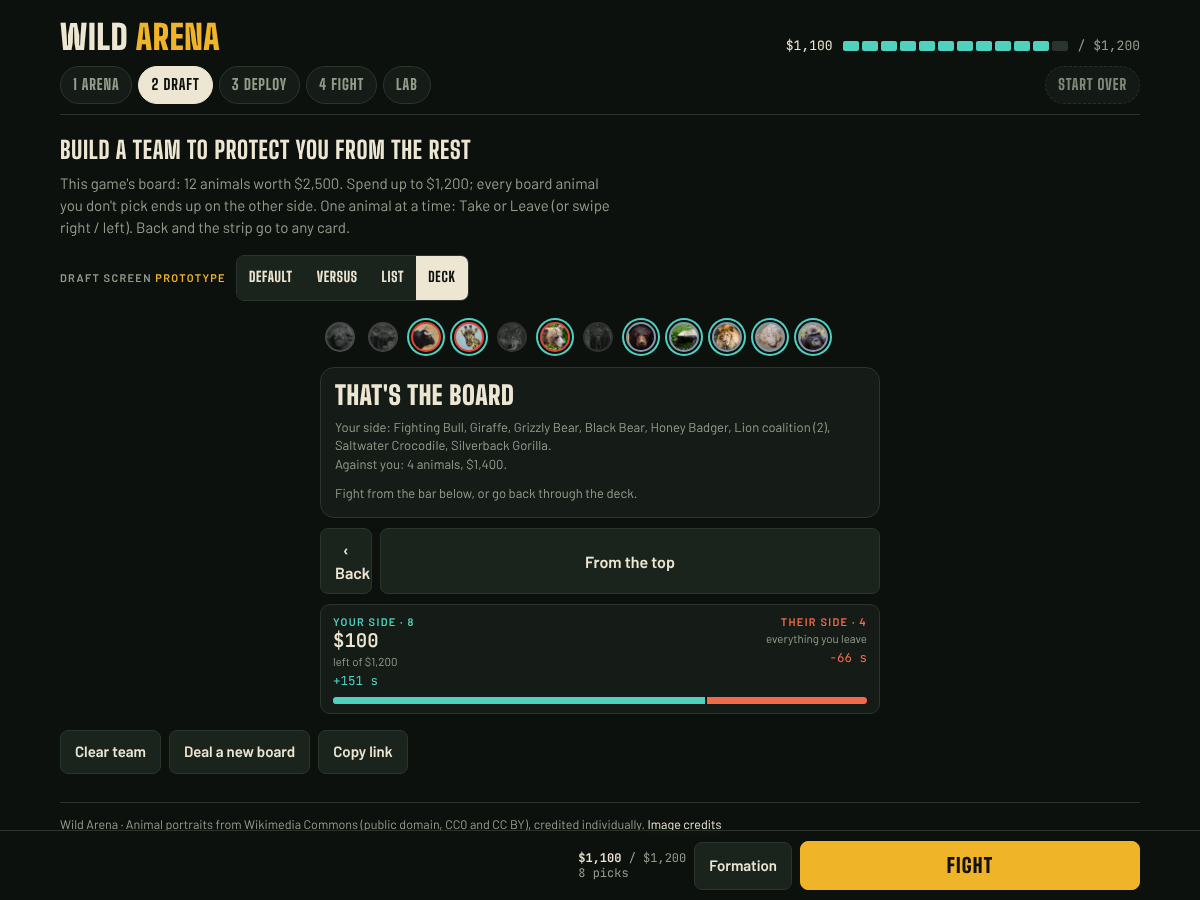
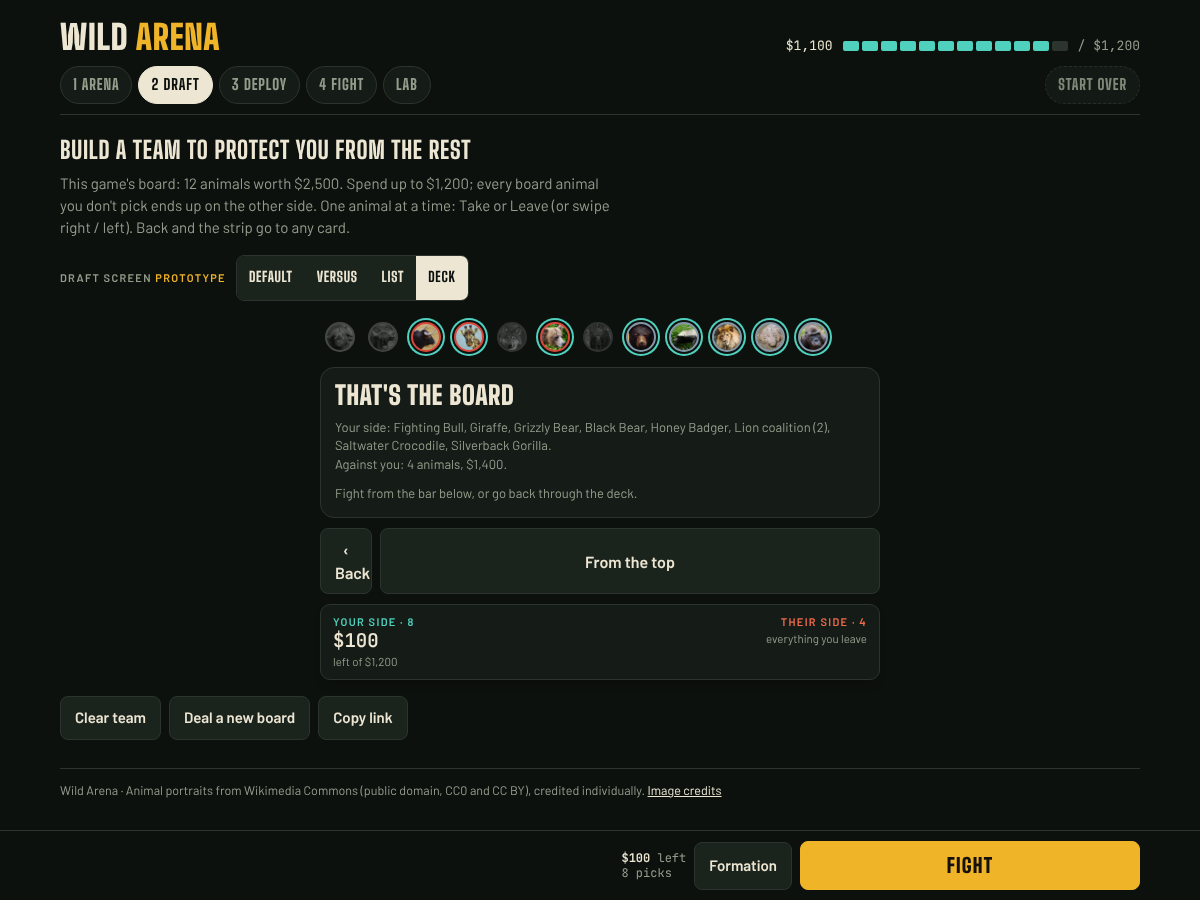
Versus draft: hide measured values (owner: discovering what's good is the fun), sticky scoreboard with budget left, no truncated signature line on tiles, action bar counts down what's left; long-team scroll on a phone ~600 -> 420 px
Claude-Session: https://claude.ai/code/session_01L2JvfUwxunjk4yQsnvm84a

diff --git a/index.html b/index.html
@@ -4477,7 +4477,7 @@ function renderActBar(){
   else if (sc === 'draft'){
     const n = S.prog ? M.teamIds(S.prog).length : S.team.size;
     const sum = document.createElement('span'); sum.className = 'sum';
-    sum.innerHTML = S.prog ? `<b>$${S.prog.money.toLocaleString()}</b><br>left` : `<b>$${spent().toLocaleString()}</b> / $${BUDGET.toLocaleString()}<br>${n} pick${n === 1 ? '' : 's'}`;
+    sum.innerHTML = S.prog ? `<b>$${S.prog.money.toLocaleString()}</b><br>left` : DUI.ui && DUI.ui !== 'default' ? `<b>$${(BUDGET - spent()).toLocaleString()}</b> left<br>${n} pick${n === 1 ? '' : 's'}` : `<b>$${spent().toLocaleString()}</b> / $${BUDGET.toLocaleString()}<br>${n} pick${n === 1 ? '' : 's'}`; // the prototype draft screens count down what's left (owner)
     add(sum, actBtn('Formation', () => go('deploy'), false, 'Place your animals (optional: Fight uses the auto formation)'), actBtn(n ? 'Fight' : 'Fight alone', () => startBattle(), true));
   }
   else if (sc === 'deploy') add(actBtn('Auto', () => $('autoForm').click(), false, 'Auto formation'), actBtn('Release the animals', () => startBattle(), true));
@@ -4545,19 +4545,14 @@ function duiNote(t){ DUI.msg = t; clearTimeout(duiNoteT); duiNoteT = setTimeout(
 function duiDetailHTML(id){ S.focus = id; renderDetail(); return $('detail').innerHTML; }
 function duiInfo(id){ $('duiDlgBody').innerHTML = duiDetailHTML(id); $('duiDlg').showModal(); }
 
-// both sides: money, head count and the summed measured value (A.MEASURED: seconds of survival an animal added on your side,
-// or cost you on theirs, each measured alone in paired test fights; a rough guide, since they don't simply add up)
+// both sides: head count, and the budget you have left
 function duiScore(note){
-  const mine = [...S.team], theirs = S.board.filter(id => !S.team.has(id)), V = id => A.MEASURED[id] || {mine: 0, theirs: 0};
-  const mv = Math.round(mine.reduce((s, id) => s + Math.max(0, V(id).mine), 0)), tv = Math.round(theirs.reduce((s, id) => s + Math.max(0, -V(id).theirs), 0));
-  const cnt = ids => ids.length, $$ = ids => ids.reduce((s, id) => s + A.BY_ID[id].price, 0);
-  const share = mv + tv ? mv / (mv + tv) : .5;
-  // owner (Oct 27): the money that matters is your budget left; their side shows no money
+  // owner (Oct 27): no measured values on screen (the +s / -s took away the fun of discovering what's good); just who's
+  // on each side and the budget you have left
+  const mine = [...S.team], theirs = S.board.filter(id => !S.team.has(id));
   const money = S.prog ? `<b>$${S.prog.money.toLocaleString()}</b><span class="sub">left to spend</span>` : `<b>$${duiLeft().toLocaleString()}</b><span class="sub">left of $${BUDGET.toLocaleString()}</span>`;
-  return `<div class="duiscore"><div class="sd you"><span class="label">Your side · ${cnt(mine)}</span>${money}<span class="v" title="Measured value">+${mv} s</span></div>`
-    + `<div class="sd foe"><span class="label">Their side · ${cnt(theirs)}</span><span class="sub">everything you leave${S.prog && S.prog.premium ? ', + premium' : ''}</span><span class="v" title="Measured value">−${tv} s</span></div>`
-    + `<div class="tug" title="Measured value, yours vs theirs"><i style="width:${Math.round(share * 100)}%"></i><b></b></div>`
-    + (note ? `<details class="duinote"><summary>What's the +s / −s?</summary>Measured value: seconds of survival each animal added on your side, or cost you on theirs, in test fights. Rough: they don't simply add up.</details>` : '')
+  return `<div class="duiscore"><div class="sd you"><span class="label">Your side · ${mine.length}</span>${money}</div>`
+    + `<div class="sd foe"><span class="label">Their side · ${theirs.length}</span><span class="sub">everything you leave${S.prog && S.prog.premium ? ', + premium' : ''}</span></div>`
     + `<div class="duimsg" aria-live="polite">${esc(DUI.msg)}</div></div>`;
 }
 const duiSig = a => { const s = sigOf(a); return s ? `<b>${esc(s[0])}</b> ${esc(s[1])}` : esc(a.style); };
@@ -4578,7 +4573,7 @@ function duiVersus(box){
     const prem = duiPrem(a.id), carried = side === 'you' && S.prog && !duiFresh(a.id), cls = ['vt', side, !S.team.has(a.id) && !canAdd(a) ? 'cant' : '', prem ? 'prem' : '', DUI.flash === a.id ? 'flash' : ''].join(' ');
     const lbl = prem ? 'Not for sale: it fights you' : side === 'foe' ? `Bring ${itemName(a)} to your side` : carried ? `${itemName(a)}: details` : `Send ${itemName(a)} to their side`;
     return `<div class="${cls}"><button class="vtm" data-${prem || carried ? 'info' : 'id'}="${a.id}" aria-label="${esc(lbl)}">${tokHTML(a, 38)}<span class="vtb"><span class="vtn">${esc(itemName(a))}</span>`
-      + `<span class="vtl">${duiPriceHTML(a)}${duiTags(a)}${prem ? '<span class="bdg bad">Not for sale</span>' : ''}</span><span class="vts">${duiSig(a)}</span></span></button>`
+      + `<span class="vtl">${duiPriceHTML(a)}${duiTags(a)}${prem ? '<span class="bdg bad">Not for sale</span>' : ''}</span></span></button>`
       + `<button class="vti" data-info="${a.id}" aria-label="${esc(itemName(a))} details"><span>i</span></button>${side === 'you' && S.prog ? `<div class="vtp">${duiProgBits(a.id)}</div>` : ''}</div>`;
   };
   box.innerHTML = duiScore(true) + `<div class="vs"><section class="vcol you"><h3>Your side</h3><p class="vh">${S.prog ? 'Undo, sell or heal below each' : 'Tap to send back'}</p><div class="vlist">${mine.map(a => tile(a, 'you')).join('') || '<p class="vempty">Nobody yet. Tap an animal on their side to bring it over.</p>'}</div></section>`
@@ -4732,6 +4727,7 @@ function draftAlt(){
   if (!alt) return false;
   if (!S.prog) $('boardLede').textContent = $('boardLede').textContent.replace(/Tap a card to draft it;.*$/, DUI_HELP[DUI.ui]);
   ({versus: duiVersus, list: duiList, deck: duiDeck})[DUI.ui](box);
+  { const h = document.querySelector('header.top'); if (h) document.documentElement.style.setProperty('--hdrH', h.offsetHeight + 'px'); } // the sticky scoreboard sits just under the header
   return true;
 }
 const DUI_CSS = `
@@ -4739,7 +4735,7 @@ const DUI_CSS = `
 .duisw .seg button{font-family:var(--display);font-weight:800;font-size:14px;letter-spacing:.05em;text-transform:uppercase;padding-inline:12px}
 .dui{display:flex;flex-direction:column;gap:12px;min-width:0}
 .dprice{font-family:var(--mono);font-size:12.5px;font-weight:600}
-.duiscore{display:grid;grid-template-columns:minmax(0,1fr) minmax(0,1fr);gap:3px 12px;background:var(--panel);border:1px solid var(--line);border-radius:var(--r);padding:9px 12px}
+.duiscore{display:grid;grid-template-columns:minmax(0,1fr) minmax(0,1fr);gap:3px 12px;background:var(--panel);border:1px solid var(--line);border-radius:var(--r);padding:9px 12px;position:sticky;top:var(--hdrH, 0px);z-index:15;box-shadow:0 6px 12px -8px rgba(0,0,0,.6)} /* stays under the header while you scroll (owner) */
 .duiscore .sd{display:flex;flex-direction:column;gap:0;min-width:0}
 .duiscore .sd.foe{text-align:right;align-items:flex-end}
 .duiscore .sd.you .label{color:var(--you)} .duiscore .sd.foe .label{color:var(--foe)}
@@ -4869,7 +4865,7 @@ const DUI_CSS = `
 
 // ---------- init ----------
 function renderAll(){ renderBudget(); renderDraft(); renderArenaOpts(); renderActBar(); }
-window.addEventListener('resize', () => { if (S.screen === 'deploy'){ sizeCanvas($('deployCanvas')); drawDeploy(); } if (S.screen === 'fight') sizeCanvas($('fightCanvas')); });
+window.addEventListener('resize', () => { { const h = document.querySelector('header.top'); if (h) document.documentElement.style.setProperty('--hdrH', h.offsetHeight + 'px'); } if (S.screen === 'deploy'){ sizeCanvas($('deployCanvas')); drawDeploy(); } if (S.screen === 'fight') sizeCanvas($('fightCanvas')); });
 $('seedLbl').textContent = S.seed;
 syncSpeed();
 if (!loadHash()){

diff --git a/ui.js b/ui.js
@@ -1518,7 +1518,7 @@ function renderActBar(){
   else if (sc === 'draft'){
     const n = S.prog ? M.teamIds(S.prog).length : S.team.size;
     const sum = document.createElement('span'); sum.className = 'sum';
-    sum.innerHTML = S.prog ? `<b>$${S.prog.money.toLocaleString()}</b><br>left` : `<b>$${spent().toLocaleString()}</b> / $${BUDGET.toLocaleString()}<br>${n} pick${n === 1 ? '' : 's'}`;
+    sum.innerHTML = S.prog ? `<b>$${S.prog.money.toLocaleString()}</b><br>left` : DUI.ui && DUI.ui !== 'default' ? `<b>$${(BUDGET - spent()).toLocaleString()}</b> left<br>${n} pick${n === 1 ? '' : 's'}` : `<b>$${spent().toLocaleString()}</b> / $${BUDGET.toLocaleString()}<br>${n} pick${n === 1 ? '' : 's'}`; // the prototype draft screens count down what's left (owner)
     add(sum, actBtn('Formation', () => go('deploy'), false, 'Place your animals (optional: Fight uses the auto formation)'), actBtn(n ? 'Fight' : 'Fight alone', () => startBattle(), true));
   }
   else if (sc === 'deploy') add(actBtn('Auto', () => $('autoForm').click(), false, 'Auto formation'), actBtn('Release the animals', () => startBattle(), true));
@@ -1586,19 +1586,14 @@ function duiNote(t){ DUI.msg = t; clearTimeout(duiNoteT); duiNoteT = setTimeout(
 function duiDetailHTML(id){ S.focus = id; renderDetail(); return $('detail').innerHTML; }
 function duiInfo(id){ $('duiDlgBody').innerHTML = duiDetailHTML(id); $('duiDlg').showModal(); }
 
-// both sides: money, head count and the summed measured value (A.MEASURED: seconds of survival an animal added on your side,
-// or cost you on theirs, each measured alone in paired test fights; a rough guide, since they don't simply add up)
+// both sides: head count, and the budget you have left
 function duiScore(note){
-  const mine = [...S.team], theirs = S.board.filter(id => !S.team.has(id)), V = id => A.MEASURED[id] || {mine: 0, theirs: 0};
-  const mv = Math.round(mine.reduce((s, id) => s + Math.max(0, V(id).mine), 0)), tv = Math.round(theirs.reduce((s, id) => s + Math.max(0, -V(id).theirs), 0));
-  const cnt = ids => ids.length, $$ = ids => ids.reduce((s, id) => s + A.BY_ID[id].price, 0);
-  const share = mv + tv ? mv / (mv + tv) : .5;
-  // owner (Oct 27): the money that matters is your budget left; their side shows no money
+  // owner (Oct 27): no measured values on screen (the +s / -s took away the fun of discovering what's good); just who's
+  // on each side and the budget you have left
+  const mine = [...S.team], theirs = S.board.filter(id => !S.team.has(id));
   const money = S.prog ? `<b>$${S.prog.money.toLocaleString()}</b><span class="sub">left to spend</span>` : `<b>$${duiLeft().toLocaleString()}</b><span class="sub">left of $${BUDGET.toLocaleString()}</span>`;
-  return `<div class="duiscore"><div class="sd you"><span class="label">Your side · ${cnt(mine)}</span>${money}<span class="v" title="Measured value">+${mv} s</span></div>`
-    + `<div class="sd foe"><span class="label">Their side · ${cnt(theirs)}</span><span class="sub">everything you leave${S.prog && S.prog.premium ? ', + premium' : ''}</span><span class="v" title="Measured value">−${tv} s</span></div>`
-    + `<div class="tug" title="Measured value, yours vs theirs"><i style="width:${Math.round(share * 100)}%"></i><b></b></div>`
-    + (note ? `<details class="duinote"><summary>What's the +s / −s?</summary>Measured value: seconds of survival each animal added on your side, or cost you on theirs, in test fights. Rough: they don't simply add up.</details>` : '')
+  return `<div class="duiscore"><div class="sd you"><span class="label">Your side · ${mine.length}</span>${money}</div>`
+    + `<div class="sd foe"><span class="label">Their side · ${theirs.length}</span><span class="sub">everything you leave${S.prog && S.prog.premium ? ', + premium' : ''}</span></div>`
     + `<div class="duimsg" aria-live="polite">${esc(DUI.msg)}</div></div>`;
 }
 const duiSig = a => { const s = sigOf(a); return s ? `<b>${esc(s[0])}</b> ${esc(s[1])}` : esc(a.style); };
@@ -1619,7 +1614,7 @@ function duiVersus(box){
     const prem = duiPrem(a.id), carried = side === 'you' && S.prog && !duiFresh(a.id), cls = ['vt', side, !S.team.has(a.id) && !canAdd(a) ? 'cant' : '', prem ? 'prem' : '', DUI.flash === a.id ? 'flash' : ''].join(' ');
     const lbl = prem ? 'Not for sale: it fights you' : side === 'foe' ? `Bring ${itemName(a)} to your side` : carried ? `${itemName(a)}: details` : `Send ${itemName(a)} to their side`;
     return `<div class="${cls}"><button class="vtm" data-${prem || carried ? 'info' : 'id'}="${a.id}" aria-label="${esc(lbl)}">${tokHTML(a, 38)}<span class="vtb"><span class="vtn">${esc(itemName(a))}</span>`
-      + `<span class="vtl">${duiPriceHTML(a)}${duiTags(a)}${prem ? '<span class="bdg bad">Not for sale</span>' : ''}</span><span class="vts">${duiSig(a)}</span></span></button>`
+      + `<span class="vtl">${duiPriceHTML(a)}${duiTags(a)}${prem ? '<span class="bdg bad">Not for sale</span>' : ''}</span></span></button>`
       + `<button class="vti" data-info="${a.id}" aria-label="${esc(itemName(a))} details"><span>i</span></button>${side === 'you' && S.prog ? `<div class="vtp">${duiProgBits(a.id)}</div>` : ''}</div>`;
   };
   box.innerHTML = duiScore(true) + `<div class="vs"><section class="vcol you"><h3>Your side</h3><p class="vh">${S.prog ? 'Undo, sell or heal below each' : 'Tap to send back'}</p><div class="vlist">${mine.map(a => tile(a, 'you')).join('') || '<p class="vempty">Nobody yet. Tap an animal on their side to bring it over.</p>'}</div></section>`
@@ -1773,6 +1768,7 @@ function draftAlt(){
   if (!alt) return false;
   if (!S.prog) $('boardLede').textContent = $('boardLede').textContent.replace(/Tap a card to draft it;.*$/, DUI_HELP[DUI.ui]);
   ({versus: duiVersus, list: duiList, deck: duiDeck})[DUI.ui](box);
+  { const h = document.querySelector('header.top'); if (h) document.documentElement.style.setProperty('--hdrH', h.offsetHeight + 'px'); } // the sticky scoreboard sits just under the header
   return true;
 }
 const DUI_CSS = `
@@ -1780,7 +1776,7 @@ const DUI_CSS = `
 .duisw .seg button{font-family:var(--display);font-weight:800;font-size:14px;letter-spacing:.05em;text-transform:uppercase;padding-inline:12px}
 .dui{display:flex;flex-direction:column;gap:12px;min-width:0}
 .dprice{font-family:var(--mono);font-size:12.5px;font-weight:600}
-.duiscore{display:grid;grid-template-columns:minmax(0,1fr) minmax(0,1fr);gap:3px 12px;background:var(--panel);border:1px solid var(--line);border-radius:var(--r);padding:9px 12px}
+.duiscore{display:grid;grid-template-columns:minmax(0,1fr) minmax(0,1fr);gap:3px 12px;background:var(--panel);border:1px solid var(--line);border-radius:var(--r);padding:9px 12px;position:sticky;top:var(--hdrH, 0px);z-index:15;box-shadow:0 6px 12px -8px rgba(0,0,0,.6)} /* stays under the header while you scroll (owner) */
 .duiscore .sd{display:flex;flex-direction:column;gap:0;min-width:0}
 .duiscore .sd.foe{text-align:right;align-items:flex-end}
 .duiscore .sd.you .label{color:var(--you)} .duiscore .sd.foe .label{color:var(--foe)}
@@ -1910,7 +1906,7 @@ const DUI_CSS = `
 
 // ---------- init ----------
 function renderAll(){ renderBudget(); renderDraft(); renderArenaOpts(); renderActBar(); }
-window.addEventListener('resize', () => { if (S.screen === 'deploy'){ sizeCanvas($('deployCanvas')); drawDeploy(); } if (S.screen === 'fight') sizeCanvas($('fightCanvas')); });
+window.addEventListener('resize', () => { { const h = document.querySelector('header.top'); if (h) document.documentElement.style.setProperty('--hdrH', h.offsetHeight + 'px'); } if (S.screen === 'deploy'){ sizeCanvas($('deployCanvas')); drawDeploy(); } if (S.screen === 'fight') sizeCanvas($('fightCanvas')); });
 $('seedLbl').textContent = S.seed;
 syncSpeed();
 if (!loadHash()){

diff --git a/CLAUDE.md b/CLAUDE.md
@@ -23,6 +23,8 @@ count as 5:00). Live site: GitHub Pages serves `index.html` from `main`.
 - **Don't change knobs the owner didn't ask about.** When a proposal moves a number they care about, explain the why in
   one or two plain sentences ("the total is the other side's budget, so...").
 - **Science wording:** a null result is "none found **so far**", never "there's no headroom". Keep trying with better setups.
+- **No measured values on screen.** Discovering what's good is part of the fun (owner, Oct 27: hide the +s / −s): cards and
+  draft screens show signatures, stats and the player's own record, never `MEASURED` swing numbers.
 - **Mobile first.** The owner plays and screenshots on a phone (~412 px). Check every UI change with a Playwright
   screenshot at phone width and look at it, not just for page errors.
 - **Bug reports are terse** ("this is broken", "the streak was wrong"). Reproduce, fix the most likely cause, and say the
